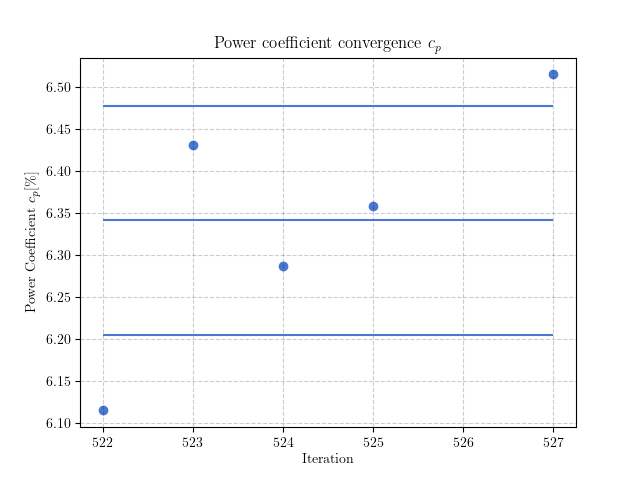
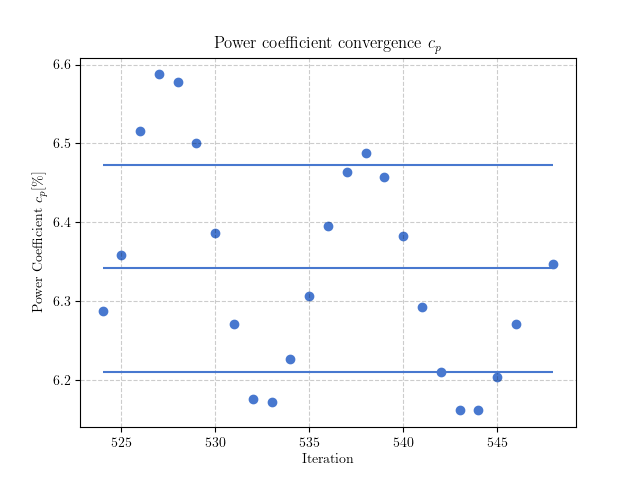
update

diff --git a/steady/cp.py b/steady/cp.py
@@ -9,7 +9,7 @@ v_0 = 8.0
 r = 0.11
 # rho air at 25ºC
 rho = 1.225
-purge_before = 0
+purge_before = 2
 
 with open(f'steady/postProcessing/forcesIncompressible/{t_init}/forces.dat', 'r') as f:
     data = f.readlines()
@@ -55,7 +55,7 @@ print("---------------------------------------------")
 print(f"Average: {cp_avg*100:.2f}%")
 print(f"Standard Deviation: {rms*100:.2f}%")
 print("---------------------------------------------")
-x = np.linspace(0, len(cp), len(cp), dtype=int)
+# x = np.linspace(0, len(cp), len(cp), dtype=int)
 plt.rcParams['text.usetex'] = True
 plt.style.use("seaborn-v0_8-muted")
 plt.rcParams['font.family'] = 'Times New Roman'
